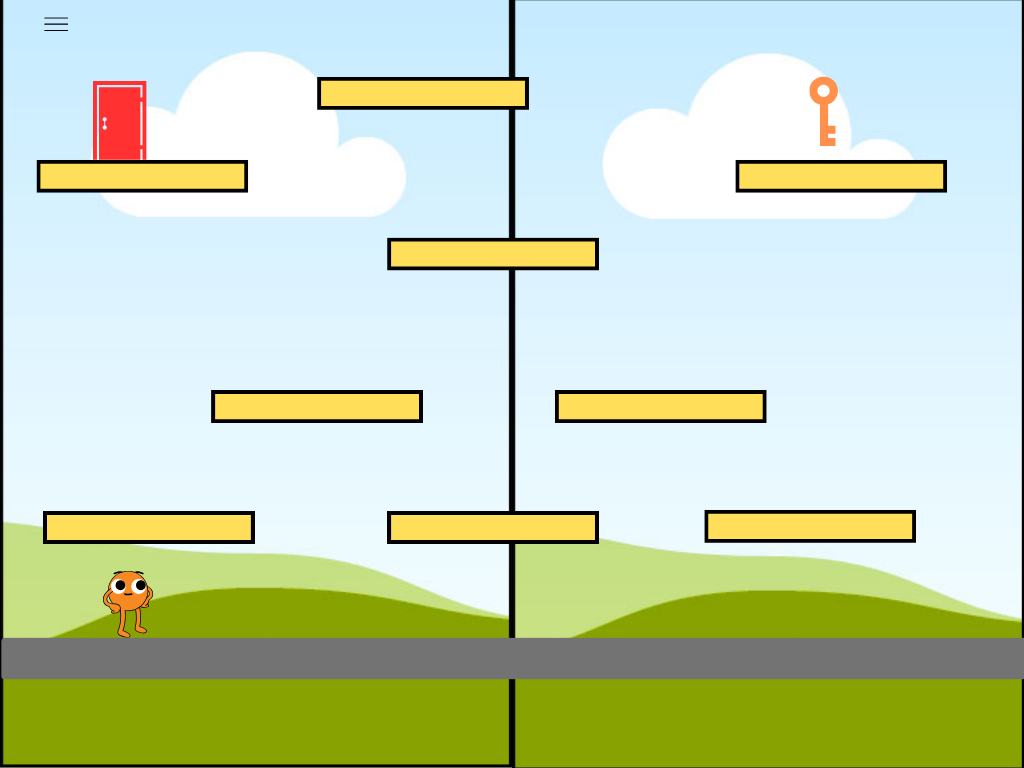
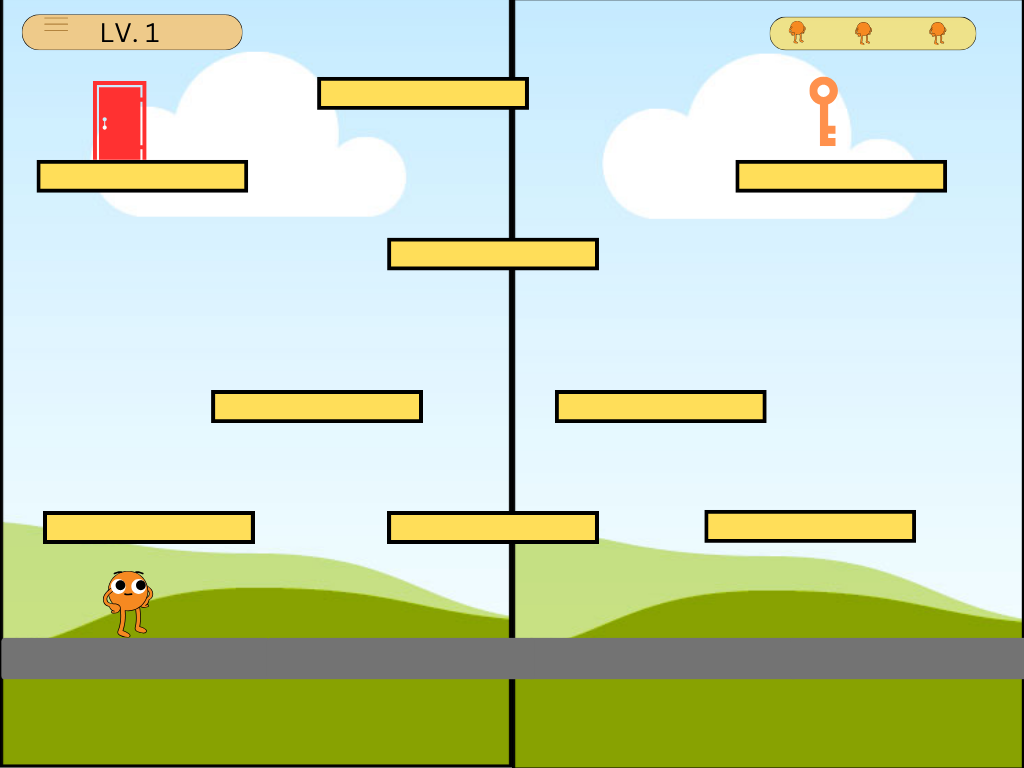
feat add game objective image and update game layout image

Changed region(s): [[0.75, 0.0, 0.9688, 0.0938], [0.0, 0.0, 0.25, 0.0625]]

diff --git a/README.md b/README.md
@@ -2,3 +2,5 @@
 ![Game Layout](./img/game_layout_wireframe.png)
 
 ![Control Layout](./img/control_layout_wireframe.png)
+
+![Game Objective](./img/game_objective.png)
